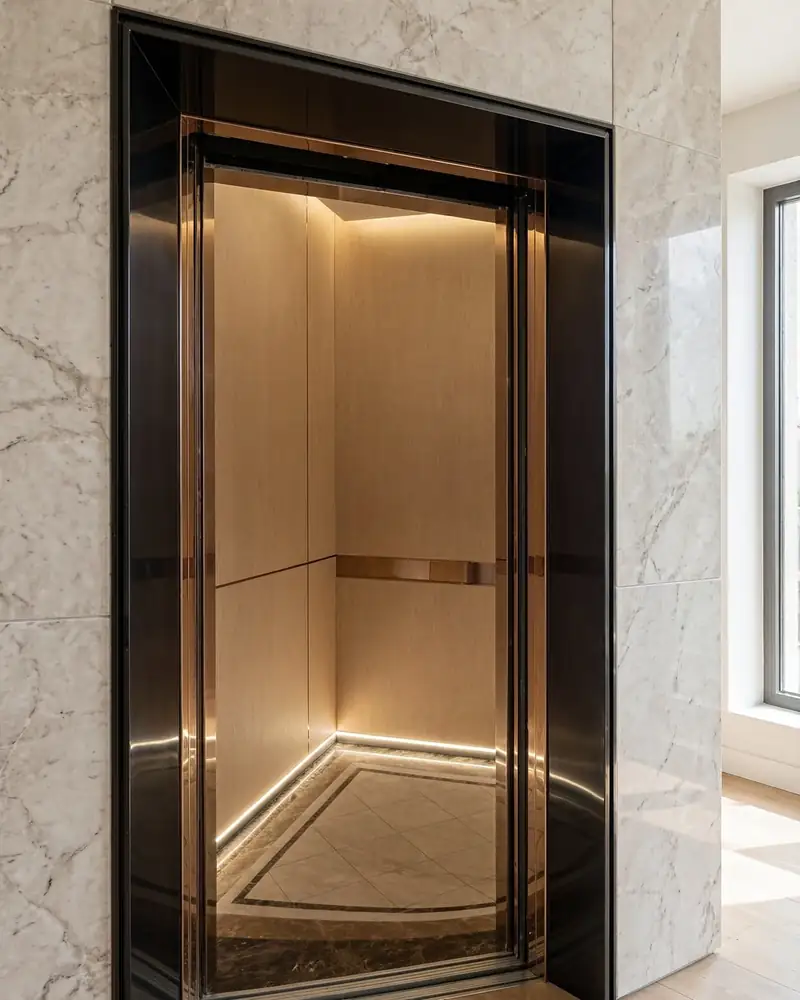
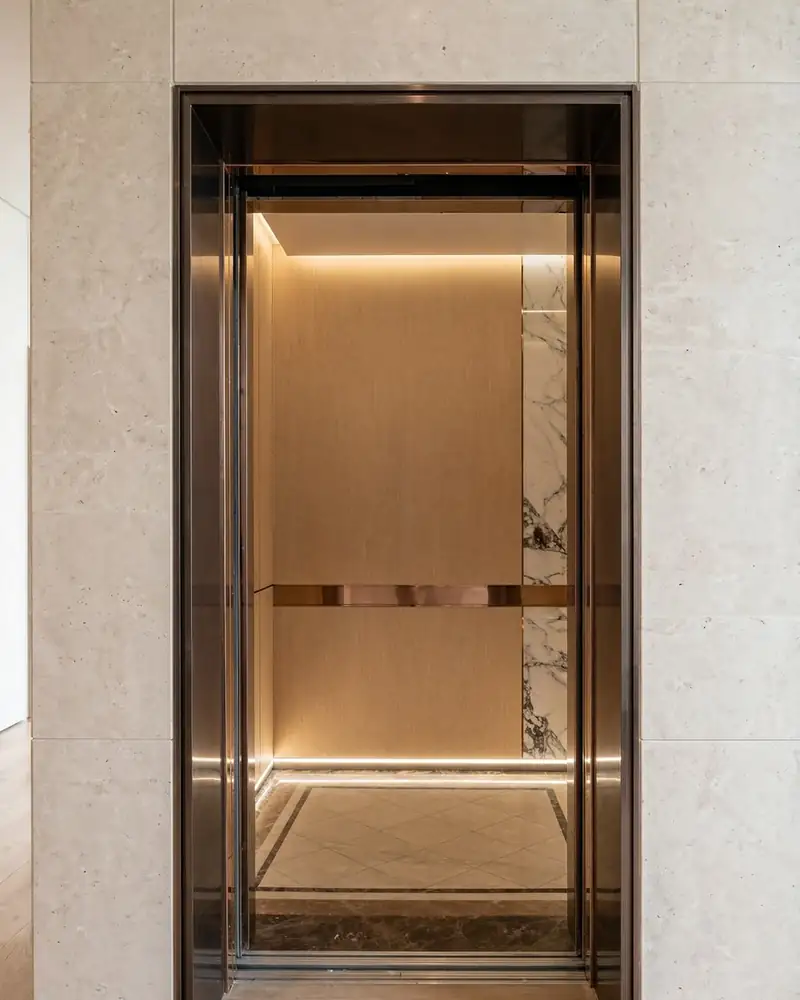
Collections strip: regenerate cabins 04 and 06 straight-on
- Yuanbao re-run with a centred, eye-level, distortion-free prompt: 04 no longer reads
  as a dark niche, 06 loses the wide-angle curve; first attempts kept in edited/v1
- Strip intro no longer says the cabins are in the showroom

diff --git a/collections.html b/collections.html
@@ -218,7 +218,7 @@
     <div class="wrap">
       <div class="section-head reveal">
         <h2 class="h2">Photographed as Built</h2>
-        <p class="h2-sub">Three finished SINNVO cabins in the showroom. Every cabin is made to order, so yours is designed around your home.</p>
+        <p class="h2-sub">Three finished SINNVO cabins. Every cabin is made to order, so yours is designed around your home.</p>
       </div>
       <div class="photo-strip reveal">
         <figure><div class="media media--portrait" data-fallback-label="real-cabin-starlight.jpg"><picture><source type="image/webp" srcset="/assets/images/real-cabin-starlight-480w.webp 480w, /assets/images/real-cabin-starlight-800w.webp 800w, /assets/images/real-cabin-starlight-1200w.webp 1200w" sizes="(max-width: 640px) 100vw, 33vw"><img src="/assets/images/real-cabin-starlight.jpg" alt="Finished cabin with a starry LED ceiling, a crystal-textured column and a blue-lit floor" width="1350" height="1688" loading="lazy" decoding="async"></picture></div><figcaption>Starry ceiling, crystal column</figcaption></figure>
